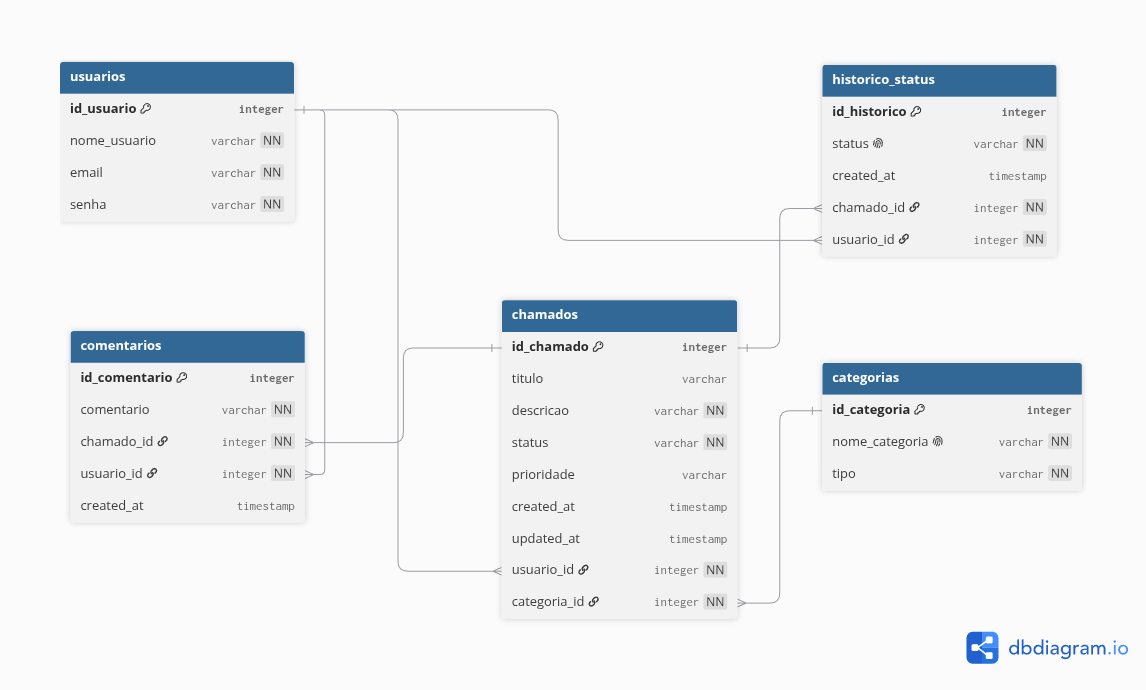
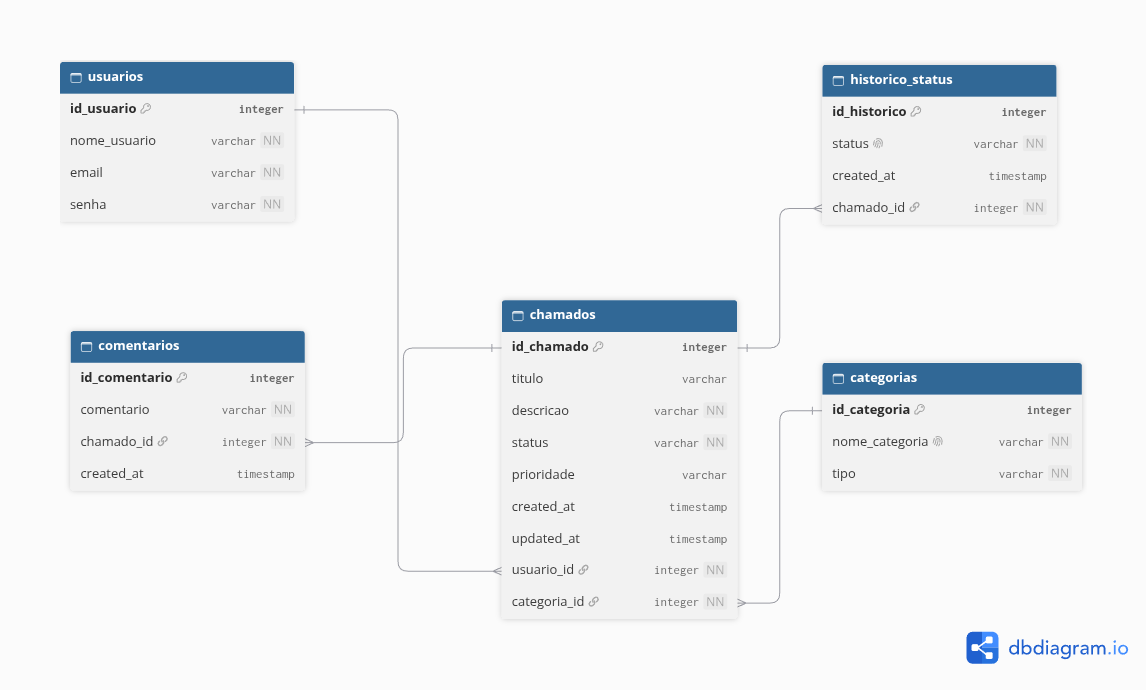
feat: semana 03 - base laravel e persistencia

diff --git a/chamado_ja/app/Models/Chamado.php b/chamado_ja/app/Models/Chamado.php
@@ -2,10 +2,12 @@
 
 namespace App\Models;
 
+use Illuminate\Database\Eloquent\Factories\HasFactory;
 use Illuminate\Database\Eloquent\Model;
 
 class Chamado extends Model
 {
+    use HasFactory;
     protected $table='chamados';
     protected $primaryKey='id_chamado';
     protected $fillable=[
@@ -21,18 +23,18 @@ class Chamado extends Model
     ];
 
     public function usuario(){
-        return $this->belongsTo('App/Usuario', 'usuario_id', 'id_usuario');
+        return $this->belongsTo(Usuario::class, 'usuario_id','id_usuario');
     }
 
     public function categoria(){
-        return $this->belongsTo('App/Categoria','categoria_id','id_categoria');
+        return $this->belongsTo(Categoria::class,'categoria_id','id_categoria');
     }
 
-    public function comentario(){
-        return $this->hasMany('App/Comentario', 'id_chamado', 'chamado_id');
+    public function comentarios(){
+        return $this->hasMany(Comentario::class, 'chamado_id','id_chamado');
     }
 
-    public function historico(){
-        return $this->hasMany('App/HistoricoStatus', 'id_chamado','chamado_id');
+    public function historicos(){
+        return $this->hasMany(HistoricoStatus::class, 'chamado_id','id_chamado');
     }
 }

diff --git a/chamado_ja/database/factories/ChamadoFactory.php b/chamado_ja/database/factories/ChamadoFactory.php
@@ -1,0 +1,45 @@
+<?php
+
+namespace Database\Factories;
+
+use App\Models\Chamado;
+use Illuminate\Database\Eloquent\Factories\Factory;
+use App\Models\Usuario;
+use App\Models\Categoria;
+/**
+ * @extends Factory<Chamado>
+ */
+class ChamadoFactory extends Factory
+{
+    /**
+     * Define the model's default state.
+     *
+     * @return array<string, mixed>
+     */
+    public function definition(): array
+    {
+        return [
+            'titulo'=>fake()->sentence(),
+            'descricao'=>fake()->paragraph(),
+            'status'=>fake()->randomElement([
+                'aberto',
+                'em atendimento',
+                'resolvido',
+                'fechado'
+            ]),
+            'prioridade'=>fake()->randomElement([
+                'baixa',
+                'média',
+                'alta',
+                'urgente'
+            ]),
+            'usuario_id' => Usuario::query()
+                ->inRandomOrder()
+                ->value('id_usuario'),
+
+            'categoria_id' => Categoria::query()
+                ->inRandomOrder()
+                ->value('id_categoria'),
+        ];
+    }
+}

diff --git a/chamado_ja/database/factories/HistoricoStatusFactory.php b/chamado_ja/database/factories/HistoricoStatusFactory.php
@@ -1,0 +1,36 @@
+<?php
+
+namespace Database\Factories;
+
+use App\Models\HistoricoStatus;
+use Illuminate\Database\Eloquent\Factories\Factory;
+use App\Models\Chamado;
+
+/**
+ * @extends Factory<HistoricoStatus>
+ */
+class HistoricoStatusFactory extends Factory
+{
+    /**
+     * Define the model's default state.
+     *
+     * @return array<string, mixed>
+     */
+    public function definition(): array
+    {
+    
+            return [
+            'status'=>fake()->randomElement([
+                'aberto',
+                'em atendimento',
+                'resolvido',
+                'fechado'
+            ]),
+            'created_at'=>fake()->dateTime(),
+            'chamado_id'=> Chamado::query()
+                ->inRandomOrder()
+                ->value('id_chamado')
+        ];
+        
+    }
+}

diff --git a/chamado_ja/app/Models/Categoria.php b/chamado_ja/app/Models/Categoria.php
@@ -2,12 +2,15 @@
 
 namespace App\Models;
 
+use Illuminate\Database\Eloquent\Factories\HasFactory;
 use Illuminate\Database\Eloquent\Model;
 
 class Categoria extends Model
 {
+    use HasFactory;
     protected $table='categorias';
     protected $primaryKey='id_categoria';
+     public $timestamps = false;
 
     protected $fillable=[
         'id_categoria',
@@ -15,7 +18,7 @@ class Categoria extends Model
         'tipo'
     ];
 
-    public function chamado(){
-        return $this->hasMany('App/Chamado', 'id_categoria','categoria_id');
+    public function chamados(){
+        return $this->hasMany(Chamado::class, 'categoria_id','id_categoria');
     }
 }

diff --git a/chamado_ja/database/factories/ComentarioFactory.php b/chamado_ja/database/factories/ComentarioFactory.php
@@ -1,0 +1,29 @@
+<?php
+
+namespace Database\Factories;
+
+use App\Models\Comentario;
+use Illuminate\Database\Eloquent\Factories\Factory;
+use App\Models\Chamado;
+/**
+ * @extends Factory<Comentario>
+ */
+class ComentarioFactory extends Factory
+{
+    /**
+     * Define the model's default state.
+     *
+     * @return array<string, mixed>
+     */
+    public function definition(): array
+    {
+        return [
+            'comentario'=>fake()->text(),
+            'created_at'=>fake()->dateTime(),
+            'chamado_id'=> Chamado::query()
+                ->inRandomOrder()
+                ->value('id_chamado'),
+
+        ];
+    }
+}

diff --git a/chamado_ja/database/migrations/2026_10_13_222144_create_chamados_table.php b/chamado_ja/database/migrations/2026_10_13_222144_create_chamados_table.php
@@ -14,11 +14,10 @@ return new class extends Migration
         Schema::create('chamados', function (Blueprint $table) {
             $table->id('id_chamado');
             $table->string('titulo');
-            $table->string('descricao');
+            $table->text('descricao');
             $table->string('status')->default('aberto')->index();
             $table->string('prioridade')->index();
-            $table->timestamps('created_at');
-            $table->timestamps('updated_at');
+            $table->timestamps();
             $table->foreignId('usuario_id')
                     ->constrained(
                         table:'usuarios',

diff --git a/chamado_ja/app/Models/HistoricoStatus.php b/chamado_ja/app/Models/HistoricoStatus.php
@@ -2,10 +2,12 @@
 
 namespace App\Models;
 
+use Illuminate\Database\Eloquent\Factories\HasFactory;
 use Illuminate\Database\Eloquent\Model;
 
 class HistoricoStatus extends Model
 {
+    use HasFactory;
     protected $table='historico_status';
     protected $primaryKey='id_historico';
     protected $fillable=[
@@ -16,6 +18,6 @@ class HistoricoStatus extends Model
     ];
 
     public function chamado(){
-        return $this->hasMany('App/Chamado', 'chamado_id','id_chamado');
+        return $this->belongsTo(Chamado::class, 'chamado_id','id_chamado');
     }
 }

diff --git a/chamado_ja/app/Models/Comentario.php b/chamado_ja/app/Models/Comentario.php
@@ -2,10 +2,12 @@
 
 namespace App\Models;
 
+use Illuminate\Database\Eloquent\Factories\HasFactory;
 use Illuminate\Database\Eloquent\Model;
 
 class Comentario extends Model
 {
+    use HasFactory;
     protected $table='comentarios';
     protected $primaryKey='id_comentario';
     protected $fillable=[
@@ -16,6 +18,6 @@ class Comentario extends Model
     ];
 
     public function chamado(){
-        return $this->belongsTo('App/Chamado', 'chamado_id', 'id_chamado');
+        return $this->belongsTo(Chamado::class, 'chamado_id','id_chamado');
     }
 }

diff --git a/chamado_ja/database/seeders/DatabaseSeeder.php b/chamado_ja/database/seeders/DatabaseSeeder.php
@@ -15,11 +15,12 @@ class DatabaseSeeder extends Seeder
      */
     public function run(): void
     {
-        // User::factory(10)->create();
-
-        User::factory()->create([
-            'name' => 'Test User',
-            'email' => 'test@example.com',
-        ]);
+        $this->call([
+            CategoriaSeeder::class,
+            UsuarioSeeder::class,
+            ChamadoSeeder::class,
+            ComentarioSeeder::class,
+            HistoricoSeeder::class
+]);
     }
 }

diff --git a/chamado_ja/database/migrations/2026_10_13_222203_create_comentarios_table.php b/chamado_ja/database/migrations/2026_10_13_222203_create_comentarios_table.php
@@ -13,8 +13,8 @@ return new class extends Migration
     {
         Schema::create('comentarios', function (Blueprint $table) {
             $table->id('id_comentario');
-            $table->string('comentario');
-            $table->timestamp('created_at');
+            $table->text('comentario');
+            $table->timestamps();
             $table->foreignId('chamado_id')
                     ->constrained(
                         table:'chamados',

diff --git a/chamado_ja/database/migrations/2026_10_13_222229_create_historico_status_table.php b/chamado_ja/database/migrations/2026_10_13_222229_create_historico_status_table.php
@@ -14,7 +14,7 @@ return new class extends Migration
         Schema::create('historico_status', function (Blueprint $table) {
             $table->id('id_historico');
             $table->string('status');
-            $table->timestamps('created_at');
+            $table->timestamps();
             $table->foreignId('chamado_id')
                     ->constrained(
                         table:'chamados',

diff --git a/chamado_ja/database/seeders/HistoricoSeeder.php b/chamado_ja/database/seeders/HistoricoSeeder.php
@@ -1,0 +1,18 @@
+<?php
+
+namespace Database\Seeders;
+
+use App\Models\HistoricoStatus;
+use Illuminate\Database\Console\Seeds\WithoutModelEvents;
+use Illuminate\Database\Seeder;
+
+class HistoricoSeeder extends Seeder
+{
+    /**
+     * Run the database seeds.
+     */
+    public function run(): void
+    {
+        HistoricoStatus::factory()->count(10)->create();
+    }
+}
